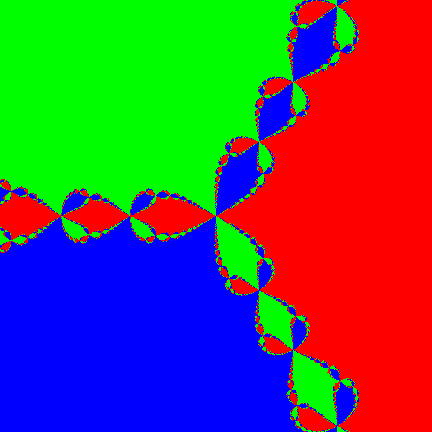
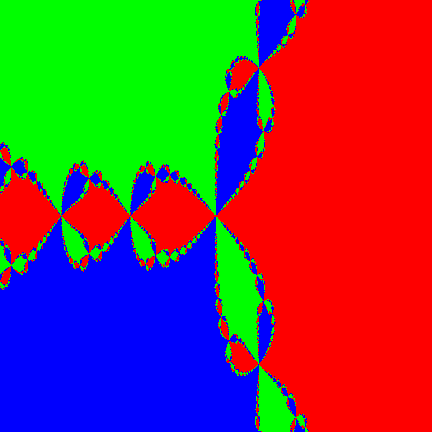
add attractors to color rendering to showcase subsequential pointwise convergence

Changed region(s): [[0.0, 0.0, 0.8426, 1.0]]

diff --git a/tools/render_newton.py b/tools/render_newton.py
@@ -8,12 +8,12 @@ IMAGES_DIR = ROOT / "images"
 IMAGES_DIR.mkdir(exist_ok=True)
 
 # Parameters
-WIDTH = 1024    # The images in the tex are 432x432
-HEIGHT = 1024
-XMIN, XMAX = -1.5, 0.5 # I used -2, 2 for newton{n}.png
+WIDTH = 432    # The images in the tex are 432x432
+HEIGHT = 432
+XMIN, XMAX = -1.5, 0.5 # I used -2, 2 for newton{n}.png and -1.5, 0.5 for the others to zoom in on the interesting part of the fractal. Adjust as needed.
 YMIN, YMAX = -1.0, 1.0
 
-ITERATION_FRAMES = [1, 3, 100]
+ITERATION_FRAMES = [1, 3, 100, 101, 102]
 EPS = 1e-6
 MAX_RADIUS = 1e6
 
@@ -52,31 +52,28 @@ def find_roots():
     return np.array(roots)
 
 # Coloring by weighted distances
-def color_from_distances(z, roots):
-    """
-    Continuous coloring via inverse-distance weighting to all roots.
-    """
-    if len(roots) == 0:
+def color_from_distances(z, points):
+    if len(points) == 0:
         return np.zeros(z.shape + (3,), dtype=np.uint8)
 
-    dists = np.stack([np.abs(z - r) for r in roots], axis=-1)
+    dists = np.stack([np.abs(z - p) for p in points], axis=-1)
     dists = np.maximum(dists, EPS)
 
     weights = 1.0 / dists
     weights /= np.sum(weights, axis=-1, keepdims=True)
 
-    # Fixed RGB colors per root
+    # 1-3: RGB for Roots | 4-5: Cyan/Magenta for Attractors
     base_colors = np.array([
-        [1.0, 0.0, 0.0],
-        [0.0, 1.0, 0.0],
-        [0.0, 0.0, 1.0],
-        [1.0, 1.0, 0.0],
+        [1.0, 0.0, 0.0], # Root 1 (Red)
+        [0.0, 1.0, 0.0], # Root 2 (Green)
+        [0.0, 0.0, 1.0], # Root 3 (Blue)
+        [0.0, 1.0, 1.0], # Attractor 0 (Cyan)
+        [1.0, 0.0, 1.0], # Attractor 1 (Magenta)
     ])
 
-    colors = base_colors[:len(roots)]
-
+    colors = base_colors[:len(points)]
     rgb = np.zeros(z.shape + (3,), dtype=float)
-    for i in range(len(roots)):
+    for i in range(len(points)):
         rgb += weights[..., i:i+1] * colors[i]
 
     return (255 * rgb).astype(np.uint8)
@@ -93,15 +90,16 @@ def newton_iterations(z, steps):
 
 # Main
 roots = find_roots()
+attractors = np.array([0.0 + 0j, 1.0 + 0j])
+all_points = np.concatenate([roots, attractors])
 
 for n in ITERATION_FRAMES:
     Z = newton_iterations(Z0, n)
 
     invalid = np.isnan(Z.real) | np.isnan(Z.imag)
-    rgb = color_from_distances(Z, roots)
+    # Use all_points here to include the attractors in the color calculation
+    rgb = color_from_distances(Z, all_points) 
     rgb[invalid] = 0
 
-    output_path = IMAGES_DIR / f"newton_bg.png"
+    output_path = IMAGES_DIR / f"newton_div{n}.png"
     imageio.imwrite(output_path, rgb)
-
-    print(f"Saved {output_path}")
